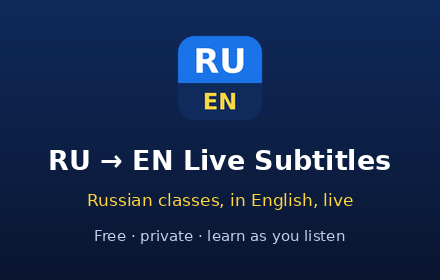
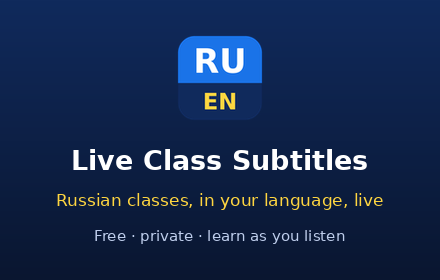
Rename to Live Class Subtitles (repo, extension, service, docs)
- Store title "Live Class Subtitles – Russian to 38 Languages", short name
  "Live Class Subtitles"; popup, setup and mic pages, prompt, listing,
  privacy policy, README, promo tile and screenshots updated.
- Repo renamed to abdullahmiraz/live-class-subtitles (GitHub redirects
  the old URL); installer, links and install dir follow.
- Downloads go to Downloads/live-class-subtitles/; zip is
  dist/live-class-subtitles-<version>.zip.
- systemd unit renamed to live-class-subtitles; install-autostart.sh
  removes the old ru-en-subtitles unit.

Changed region(s): [[0.0886, 0.5143, 0.7091, 0.6286], [0.1182, 0.6857, 0.8864, 0.7714], [0.7386, 0.5143, 0.8864, 0.6286]]

diff --git a/extension/welcome.html b/extension/welcome.html
@@ -1,7 +1,7 @@
 <!doctype html>
 <meta charset="utf-8" />
 <meta name="viewport" content="width=device-width" />
-<title>RU→EN Live Subtitles · Setup</title>
+<title>Live Class Subtitles · Setup</title>
 <style>
   body { font: 15px/1.55 system-ui, sans-serif; max-width: 640px; margin: 48px auto; padding: 0 20px; color: #222; }
   h1 { font-size: 24px; margin-bottom: 4px; }
@@ -17,18 +17,18 @@
   kbd { background: #eee; border: 1px solid #ccc; border-bottom-width: 2px; border-radius: 4px; padding: 0 5px; font-size: 13px; }
   a { color: #1a73e8; }
 </style>
-<h1>RU → EN Live Subtitles</h1>
-<p class="lead">Live English subtitles for Russian audio in any tab. Free, no account, and the speech recognition runs on your
+<h1>Live Class Subtitles</h1>
+<p class="lead">Live subtitles for Russian audio in any tab, in English or 37 other languages. Free, no account, and the speech recognition runs on your
   own computer.</p>
 
 <h2><span class="n">1</span>Install the companion (once)</h2>
 <p>Chrome can't run speech recognition by itself, so a small free server runs on your PC. On Linux, paste this into a
   terminal:</p>
-<pre id="cmd">curl -fsSL https://raw.githubusercontent.com/abdullahmiraz/ru-en-live-subtitles/main/install.sh | bash</pre>
+<pre id="cmd">curl -fsSL https://raw.githubusercontent.com/abdullahmiraz/live-class-subtitles/main/install.sh | bash</pre>
 <button id="copy">Copy</button>
 <p class="hint">It downloads the speech models once (~350 MB) and starts by itself at login. It uses ~40 MB of memory
   while idle; the models load only while subtitles are on. Manual setup and source:
-  <a href="https://github.com/abdullahmiraz/ru-en-live-subtitles#readme" target="_blank">GitHub</a>.</p>
+  <a href="https://github.com/abdullahmiraz/live-class-subtitles#readme" target="_blank">GitHub</a>.</p>
 <p>Companion status: <span id="status">checking…</span></p>
 
 <h2><span class="n">2</span>Start subtitles</h2>
@@ -41,9 +41,9 @@
 
 <h2>Privacy</h2>
 <p class="hint">Audio never leaves your computer: it goes only to the companion on your PC. Only the recognized text
-  is sent to a free translator (Yandex or Google) to get the English. No accounts, no analytics.
-  <a href="https://github.com/abdullahmiraz/ru-en-live-subtitles/blob/main/PRIVACY.md" target="_blank">Privacy policy</a></p>
+  is sent to a free translator (Yandex or Google) to get the translation. No accounts, no analytics.
+  <a href="https://github.com/abdullahmiraz/live-class-subtitles/blob/main/PRIVACY.md" target="_blank">Privacy policy</a></p>
 <h2>Help</h2>
-<p class="hint">Something not working, or an idea? <a href="https://github.com/abdullahmiraz/ru-en-live-subtitles/issues" target="_blank">Open an issue on GitHub</a>, or message
+<p class="hint">Something not working, or an idea? <a href="https://github.com/abdullahmiraz/live-class-subtitles/issues" target="_blank">Open an issue on GitHub</a>, or message
   me on <a href="https://www.linkedin.com/in/abdullahmiraz/" target="_blank">LinkedIn</a>.</p>
 <script src="welcome.js" type="module"></script>

diff --git a/extension/popup.html b/extension/popup.html
@@ -51,7 +51,7 @@
   .soon summary { font-weight: 600; cursor: pointer; }
   .soon ul { margin: 4px 0 0; padding-left: 18px; color: #555; font-size: 12px; line-height: 1.6; }
 </style>
-<h1>RU → EN Live Subtitles</h1>
+<h1>Live Class Subtitles</h1>
 <button id="toggle">Start on this tab</button>
 
 <div class="tabs" role="tablist">
@@ -87,7 +87,7 @@
     <span class="lbl"><span>Auto-start on <b id="curHost">this site</b></span><span class="i" tabindex="0" data-tip="When this site starts playing sound, a small prompt offers to start subtitles with one key. Chrome asks you once to allow this site. Manage all sites in Advanced.">i</span></span><input id="autoHere" type="checkbox" /></label>
   <fieldset>
     <legend>Record this class</legend>
-    <label><span class="lbl">Mode<span class="i" tabindex="0" data-tip="Off: nothing is saved. Manual: Start recording / Stop &amp; save. Auto: every session is saved when subtitles stop. Files go to Downloads/ru-en-subtitles/.">i</span></span>
+    <label><span class="lbl">Mode<span class="i" tabindex="0" data-tip="Off: nothing is saved. Manual: Start recording / Stop &amp; save. Auto: every session is saved when subtitles stop. Files go to Downloads/live-class-subtitles/.">i</span></span>
       <select id="saveMode">
         <option value="off">Off</option>
         <option value="manual">Manual (start / stop)</option>
@@ -110,7 +110,7 @@
     </label>
     <button id="saveBtn">Start recording</button>
     <div id="saveInfo"></div>
-    <div class="hint">Files go to Downloads/ru-en-subtitles/ · <a id="openFolder">open folder</a></div>
+    <div class="hint">Files go to Downloads/live-class-subtitles/ · <a id="openFolder">open folder</a></div>
   </fieldset>
 </section>
 
@@ -178,7 +178,7 @@
       <li>Who-said-what labels in transcripts</li>
       <li>Lite mode for older, low-memory PCs</li>
     </ul>
-    <div class="hint" style="margin-top:4px">Ideas or bugs? <a href="https://github.com/abdullahmiraz/ru-en-live-subtitles/issues" target="_blank">Tell us on GitHub</a></div>
+    <div class="hint" style="margin-top:4px">Ideas or bugs? <a href="https://github.com/abdullahmiraz/live-class-subtitles/issues" target="_blank">Tell us on GitHub</a></div>
   </details>
 </section>
 

diff --git a/extension/background.js b/extension/background.js
@@ -131,7 +131,7 @@ const finishSaving = () => serial(async () => {
       const filename = fileName(rec, "md").replace(/\.md$/, "." + (audio.ext || rec.audioFormat || "mp3"));
       const saved = await downloadBlob(audio.url, filename);
       rec.audioFile = saved;
-      files.push("ru-en-subtitles/" + saved);
+      files.push("live-class-subtitles/" + saved);
     }
   }
 
@@ -144,7 +144,7 @@ const finishSaving = () => serial(async () => {
     const text = render(rec, format);
     // long classes: a blob: URL from the offscreen document (data: URLs hit Chrome's ~2 MB URL limit)
     const blob = await toOffscreen({ type: "make-blob", text, mime: FORMATS[format].mime }, 5000);
-    if (blob && blob.url) files.push("ru-en-subtitles/" + (await downloadBlob(blob.url, filename)));
+    if (blob && blob.url) files.push("live-class-subtitles/" + (await downloadBlob(blob.url, filename)));
     else {
       await chrome.downloads.download({ url: dataUrl(text, FORMATS[format].mime), filename, conflictAction: "uniquify", saveAs: false });
       files.push(filename);

diff --git a/extension/content.js b/extension/content.js
@@ -779,8 +779,8 @@
     </style>
     <div class="toast">
       <span>🎧</span>
-      <span><b>RU→EN subtitles</b> for <span class="h"></span>?<br>
-        <span class="muted">${key ? `Press <kbd>${key.replace(/\+/g, "</kbd>+<kbd>")}</kbd> or click` : "Click"} the RU→EN icon${m.busy ? " (moves subtitles to this tab)" : ""}</span></span>
+      <span><b>Live subtitles</b> for <span class="h"></span>?<br>
+        <span class="muted">${key ? `Press <kbd>${key.replace(/\+/g, "</kbd>+<kbd>")}</kbd> or click` : "Click"} the Live Class Subtitles icon${m.busy ? " (moves subtitles to this tab)" : ""}</span></span>
       <button class="later" title="Hide for 10 minutes">Not now</button>
       <button class="never" title="Turn off auto-start for this site">Don't ask here</button>
     </div>`;

diff --git a/extension/transcript.js b/extension/transcript.js
@@ -30,10 +30,10 @@ export function stamp(epochMs) {
   return `${d.getFullYear()}-${pad(d.getMonth() + 1)}-${pad(d.getDate())}_${pad(d.getHours())}-${pad(d.getMinutes())}`;
 }
 
-/** Downloads-relative path, e.g. "ru-en-subtitles/meet.google.com_2026-10-24_18-05.md". */
+/** Downloads-relative path, e.g. "live-class-subtitles/meet.google.com_2026-10-24_18-05.md". */
 export function fileName(t, format) {
   const site = (t.site || "tab").replace(/[^a-z0-9.-]+/gi, "_").slice(0, 60);
-  return `ru-en-subtitles/${site}_${stamp(t.startedAt)}.${FORMATS[format].ext}`;
+  return `live-class-subtitles/${site}_${stamp(t.startedAt)}.${FORMATS[format].ext}`;
 }
 
 // spoken in English: with a non-English subtitle language the original English is kept in `ru`

diff --git a/extension/popup.js b/extension/popup.js
@@ -201,7 +201,7 @@ async function refreshVocab() {
 $("ankiBtn").onclick = async () => {
   const { vocab = [] } = await chrome.storage.local.get("vocab");
   const url = dataUrl(toAnki(vocab), "text/plain"); // a blob: URL could die with the popup before the download starts
-  await chrome.downloads.download({ url, filename: `ru-en-subtitles/vocabulary_${new Date().toISOString().slice(0, 10)}.txt`, conflictAction: "uniquify" });
+  await chrome.downloads.download({ url, filename: `live-class-subtitles/vocabulary_${new Date().toISOString().slice(0, 10)}.txt`, conflictAction: "uniquify" });
   $("vocabInfo").textContent += " · exported ✓ (Anki: File → Import)";
 };
 $("vocabClear").onclick = async () => {

diff --git a/extension/mic.html b/extension/mic.html
@@ -1,6 +1,6 @@
 <!doctype html>
 <meta charset="utf-8" />
-<title>RU→EN Live Subtitles · Microphone</title>
+<title>Live Class Subtitles · Microphone</title>
 <style>
   body { font: 15px/1.5 system-ui, sans-serif; max-width: 520px; margin: 48px auto; padding: 0 16px; color: #222; }
   h1 { font-size: 20px; }

diff --git a/store/compose.py b/store/compose.py
@@ -60,7 +60,7 @@ im = gradient(440, 280).convert("RGBA")
 icon = Image.open(S.parent / "extension/icons/128.png").convert("RGBA").resize((112, 112), Image.LANCZOS)
 im.paste(icon, (164, 22), icon)
 d = ImageDraw.Draw(im)
-d.text((220, 160), "RU → EN Live Subtitles", font=ImageFont.truetype(BOLD, 27), fill="white", anchor="mm")
-d.text((220, 200), "Russian classes, in English, live", font=ImageFont.truetype(REG, 17), fill=YELLOW, anchor="mm")
+d.text((220, 160), "Live Class Subtitles", font=ImageFont.truetype(BOLD, 27), fill="white", anchor="mm")
+d.text((220, 200), "Russian classes, in your language, live", font=ImageFont.truetype(REG, 17), fill=YELLOW, anchor="mm")
 d.text((220, 236), "Free · private · learn as you listen", font=ImageFont.truetype(REG, 15), fill=(190, 205, 235), anchor="mm")
 save(im, "promo-small.png")

diff --git a/server/server.py b/server/server.py
@@ -286,7 +286,7 @@ async def handler(ws):
     origin = ws.request.headers.get("Origin") if ws.request else None
     if origin and not origin.startswith("chrome-extension://"):
         print(f"refused a connection from {origin[:60]}", flush=True)
-        await ws.close(1008, "only the RU→EN Live Subtitles extension may connect")
+        await ws.close(1008, "only the Live Class Subtitles extension may connect")
         return
     url = urllib.parse.urlparse(ws.request.path if ws.request else "/")
     label = (url.path.strip("/") or "tab").replace("/", "_")[:40]

diff --git a/README.md b/README.md
@@ -1,6 +1,6 @@
-# RU → EN Live Subtitles (free, permanent)
+# Live Class Subtitles (free, permanent)
 
-[![CI](https://github.com/abdullahmiraz/ru-en-live-subtitles/actions/workflows/ci.yml/badge.svg)](https://github.com/abdullahmiraz/ru-en-live-subtitles/actions/workflows/ci.yml)
+[![CI](https://github.com/abdullahmiraz/live-class-subtitles/actions/workflows/ci.yml/badge.svg)](https://github.com/abdullahmiraz/live-class-subtitles/actions/workflows/ci.yml)
 
 Live subtitles for any Chrome tab playing Russian speech (online classes, YouTube, Meet, Zoom web…), in **English or 37 other languages** (Spanish, German, Arabic, Hindi, Bengali, Chinese, Turkish, Kazakh…). No accounts, no API keys, no paid services.
 
@@ -10,7 +10,7 @@ Live subtitles for any Chrome tab playing Russian speech (online classes, YouTub
 - **Translation**: online only, through the free Yandex / Google web endpoints (no account, no key, no CPU). Default order: **Yandex classic → Google → Yandex LLM** (Yandex classic reads best in real classes; benchmark scores below). If one fails, the next takes over automatically.
 - **Subtitle language**: popup → Basic → *Translate to* (38 languages). **Auto** uses Yandex classic first for English and Google first for other languages: in a spot check, Google was clearly better outside English. Word colors (learning) work for 19 languages, the ones where Yandex returns word matches: most European and Central Asian languages, plus Hebrew. Word-card meanings and read-aloud use the subtitle language too.
 - **English sentences**: if the speaker switches to English, that sentence is written down as said (Whisper-tiny) instead of being mistranslated. You can hide those sentences with a popup switch. Russian sentences with a few English words are always kept.
-- **Record a class**: keep the **transcript (EN + RU)**, the **audio**, or both, only if you choose it. Modes are **Off** (default), **Manual** (Start recording / Stop & save) and **Auto** (every session). Transcripts come as Markdown, SRT subtitles, plain text or JSON. Audio is the tab's sound as **MP3** (default, plays on any device, ~22 MB/hour) or Opus `.webm` (smallest, ~15 MB/hour). An `.srt` and the audio file from the same session play together in VLC/mpv. Files go to `Downloads/ru-en-subtitles/`.
+- **Record a class**: keep the **transcript (EN + RU)**, the **audio**, or both, only if you choose it. Modes are **Off** (default), **Manual** (Start recording / Stop & save) and **Auto** (every session). Transcripts come as Markdown, SRT subtitles, plain text or JSON. Audio is the tab's sound as **MP3** (default, plays on any device, ~22 MB/hour) or Opus `.webm` (smallest, ~15 MB/hour). An `.srt` and the audio file from the same session play together in VLC/mpv. Files go to `Downloads/live-class-subtitles/`.
 - **Learning mode**: each Russian word and its English translation get the **same color**, and hovering a word highlights its pair. It uses Yandex's word alignment, so you learn as you read instead of only translating.
 - **Learning tools (Extra tab)**:
   - **Word card**: hover any Russian word to see its dictionary form, grammar and meaning, e.g. *дубе → дуб, noun · masculine · prepositional · "oak"*, with **★ Save** and **✓ I know it**.
@@ -27,18 +27,18 @@ Live subtitles for any Chrome tab playing Russian speech (online classes, YouTub
 
 Requirements: Linux (tested on Ubuntu with PipeWire), Google Chrome 116+ (tested on 138+), Python 3.10+, `git`, `curl`. [`uv`](https://github.com/astral-sh/uv) is used if installed.
 
-**Quick install** of the companion server (installs into `~/.local/share/ru-en-live-subtitles`, downloads the models once and starts it at every login; run it again to update):
+**Quick install** of the companion server (installs into `~/.local/share/live-class-subtitles`, downloads the models once and starts it at every login; run it again to update):
 ```bash
-curl -fsSL https://raw.githubusercontent.com/abdullahmiraz/ru-en-live-subtitles/main/install.sh | bash
+curl -fsSL https://raw.githubusercontent.com/abdullahmiraz/live-class-subtitles/main/install.sh | bash
 ```
-Then load the extension (step 2; the folder is `~/.local/share/ru-en-live-subtitles/extension`). After the extension is first installed, its setup page shows the same command and turns green when the server is reachable.
+Then load the extension (step 2; the folder is `~/.local/share/live-class-subtitles/extension`). After the extension is first installed, its setup page shows the same command and turns green when the server is reachable.
 
 **Manual install:**
 
 1. Get the code and start the server (first run downloads ~350 MB of models; keep the terminal open):
    ```bash
-   git clone https://github.com/abdullahmiraz/ru-en-live-subtitles.git
-   cd ru-en-live-subtitles
+   git clone https://github.com/abdullahmiraz/live-class-subtitles.git
+   cd live-class-subtitles
    ./start.sh
    ```
 2. Chrome → `chrome://extensions` → enable **Developer mode** → **Load unpacked** → pick the `extension/` folder (once; after code updates click the reload ↻ icon).
@@ -61,7 +61,7 @@ When nobody is using it, it takes ~40 MB of RAM and 0% CPU. The speech models lo
 
 ## Layout
 ```
-ru-en-live-subtitles/
+live-class-subtitles/
 ├── start.sh                    start the server (sets itself up on first run)
 ├── install-autostart.sh        optional autostart (systemd user service)
 ├── install.sh                  one-line installer: clone/update + setup + autostart
@@ -153,7 +153,7 @@ Data: Google FLEURS Russian test set, 775 recordings, 413 female + 362 male spea
     - **Store and install:** one-line installer, a setup page on first install, new icons, a privacy policy, listing text, and screenshots generated by headless Chrome.
 
 21. **Any major subtitle language + final bug sweep.**
-    - 38 target languages were checked against all three translators. Speech stays Russian; any spoken language is planned in [#7](https://github.com/abdullahmiraz/ru-en-live-subtitles/issues/7).
+    - 38 target languages were checked against all three translators. Speech stays Russian; any spoken language is planned in [#7](https://github.com/abdullahmiraz/live-class-subtitles/issues/7).
     - English speech is translated into the chosen language, with the original kept.
     - The popup got ⓘ explanations and a "Coming soon" list.
     - New headless end-to-end test: Chrome's fake microphone → offscreen → server → overlay → saved files (`extension/tests/e2e_headless.py`).
@@ -166,19 +166,21 @@ Data: Google FLEURS Russian test set, 775 recordings, 413 female + 362 male spea
       - Setup hints said "run start.sh" to store users.
       - The ON badge was lost after a page reload.
 
+22. **New name: Live Class Subtitles** (before the first store upload). "RU→EN" no longer fit once subtitles came in 38 languages. The store title is "Live Class Subtitles – Russian to 38 Languages". Files now go to `Downloads/live-class-subtitles/`. The repository is now `live-class-subtitles` (old links redirect), and so is the autostart service; `install-autostart.sh` removes the old one.
+
 ## Roadmap
-Next stage (tracked as [GitHub issues](https://github.com/abdullahmiraz/ru-en-live-subtitles/issues?q=label%3Anext-stage)):
+Next stage (tracked as [GitHub issues](https://github.com/abdullahmiraz/live-class-subtitles/issues?q=label%3Anext-stage)):
 - ~~Save translations (both languages) to a file~~ ✅ done (v1.1)
 - ~~Record the class audio~~ ✅ done (v1.2)
 - ~~Learning tools (#4) and borrowed ideas (#5)~~ ✅ done (v1.5)
 - ~~Auto-start on listed websites + remember used sites~~ ✅ done (v1.4, one-key start because Chrome requires a gesture)
 - ~~Chrome Web Store package, lighter idle server, per-site access~~ ✅ done (v1.6)
-- Lite version for low-RAM PCs ([#6](https://github.com/abdullahmiraz/ru-en-live-subtitles/issues/6)) and a Pro version with more languages ([#7](https://github.com/abdullahmiraz/ru-en-live-subtitles/issues/7)), both free
+- Lite version for low-RAM PCs ([#6](https://github.com/abdullahmiraz/live-class-subtitles/issues/6)) and a Pro version with more languages ([#7](https://github.com/abdullahmiraz/live-class-subtitles/issues/7)), both free
 
 ## License
 Copyright © 2026 Abdullah Miraz. **Source-available, not open source.** Licensed under the [PolyForm Strict License 1.0.0](LICENSE):
 - ✅ Personal, non-commercial use: study, hobby, your own classes. Use by schools and non-profits is also allowed by the license.
-- ❌ No redistribution, no publishing modified versions, no building other products or services on it, no commercial use, unless you have written permission. [Open an issue](https://github.com/abdullahmiraz/ru-en-live-subtitles/issues) or [message me on LinkedIn](https://www.linkedin.com/in/abdullahmiraz/) to ask.
+- ❌ No redistribution, no publishing modified versions, no building other products or services on it, no commercial use, unless you have written permission. [Open an issue](https://github.com/abdullahmiraz/live-class-subtitles/issues) or [message me on LinkedIn](https://www.linkedin.com/in/abdullahmiraz/) to ask.
 - Breaking the terms ends your license (after a 32-day chance to fix it after written notice). After that, any further use is copyright infringement.
 
 Versions published before 2026-10-24 19:30 were MIT-licensed. Those copies keep MIT; everything from this commit on is PolyForm Strict.
@@ -194,13 +196,13 @@ Benchmarks use [Google FLEURS](https://huggingface.co/datasets/google/fleurs) (C
 MP3 encoding uses [lamejs](https://github.com/zhuker/lamejs) (LGPL-3.0, bundled unmodified in `extension/vendor/`).
 
 ## Contact
-Bugs, ideas and questions: [GitHub issues](https://github.com/abdullahmiraz/ru-en-live-subtitles/issues). Permission requests or anything private: [LinkedIn](https://www.linkedin.com/in/abdullahmiraz/). More about me: [miraz.dev](https://www.miraz.dev/about).
+Bugs, ideas and questions: [GitHub issues](https://github.com/abdullahmiraz/live-class-subtitles/issues). Permission requests or anything private: [LinkedIn](https://www.linkedin.com/in/abdullahmiraz/). More about me: [miraz.dev](https://www.miraz.dev/about).
 
 ## Privacy
 Audio only goes to the server on your own PC; only the recognized text goes to the translator. No accounts, analytics or tracking. Details: [PRIVACY.md](PRIVACY.md).
 
 ## Publishing to the Chrome Web Store (maintainer)
-1. Bump `version` in `extension/manifest.json`. Run `./package.sh`. It runs the checks and writes `dist/ru-en-live-subtitles-<version>.zip`.
+1. Bump `version` in `extension/manifest.json`. Run `./package.sh`. It runs the checks and writes `dist/live-class-subtitles-<version>.zip`.
 2. If the UI changed, refresh the screenshots:
    - Start a current server: `./start.sh`, or on a spare port: `cd server && .venv/bin/python server.py --port 8799`.
    - Then run `uv run --no-project --with websockets --with pillow python store/screenshots.py store/subs.json ws://127.0.0.1:8799 && uv run --no-project --with pillow python store/compose.py`. Everything runs headless.

diff --git a/store/LISTING.md b/store/LISTING.md
@@ -1,11 +1,11 @@
 # Chrome Web Store listing (copy-paste source)
 
-Upload: `./package.sh` → `dist/ru-en-live-subtitles-<version>.zip` →
+Upload: `./package.sh` → `dist/live-class-subtitles-<version>.zip` →
 [Developer Dashboard](https://chrome.google.com/webstore/devconsole) → **Add new item** (first time) or the item → **Package → Upload new package**.
 
 ## Store listing tab
 
-**Name** (from manifest): RU→EN Live Subtitles
+**Name** (from manifest, max 75 chars): Live Class Subtitles – Russian to 38 Languages
 
 **Summary** (manifest `description`, max 132 chars):
 > Live subtitles for Russian audio in any tab: English or 37 other languages. Speech recognition runs on your own PC.
@@ -37,9 +37,9 @@ LEARN RUSSIAN WHILE YOU LISTEN
 SETUP (once, Linux)
 After installing, a setup page shows a one-line command that installs the companion server. It starts by itself at login and uses ~40 MB of memory while idle.
 
-Requires: Linux desktop with Chrome 116+. Source, help and issues: https://github.com/abdullahmiraz/ru-en-live-subtitles
+Requires: Linux desktop with Chrome 116+. Source, help and issues: https://github.com/abdullahmiraz/live-class-subtitles
 Made by Abdullah Miraz: https://www.miraz.dev/about
-Questions or ideas: https://github.com/abdullahmiraz/ru-en-live-subtitles/issues (or LinkedIn: https://www.linkedin.com/in/abdullahmiraz/)
+Questions or ideas: https://github.com/abdullahmiraz/live-class-subtitles/issues (or LinkedIn: https://www.linkedin.com/in/abdullahmiraz/)
 ```
 
 **Graphics** (in `store/`):
@@ -47,8 +47,8 @@ Questions or ideas: https://github.com/abdullahmiraz/ru-en-live-subtitles/issues
 - Screenshots 1280×800: `store/screenshot-*.png`
 - Small promo tile 440×280: `store/promo-small.png`
 
-**Homepage URL:** https://github.com/abdullahmiraz/ru-en-live-subtitles
-**Support URL:** https://github.com/abdullahmiraz/ru-en-live-subtitles/issues
+**Homepage URL:** https://github.com/abdullahmiraz/live-class-subtitles
+**Support URL:** https://github.com/abdullahmiraz/live-class-subtitles/issues
 
 ## Privacy tab
 
@@ -76,7 +76,7 @@ Questions or ideas: https://github.com/abdullahmiraz/ru-en-live-subtitles/issues
   - not used for purposes unrelated to the single purpose
   - not used for creditworthiness or lending
 
-**Privacy policy URL:** https://github.com/abdullahmiraz/ru-en-live-subtitles/blob/main/PRIVACY.md
+**Privacy policy URL:** https://github.com/abdullahmiraz/live-class-subtitles/blob/main/PRIVACY.md
 
 ## Distribution tab
 - Visibility: **Public**, or **Unlisted** for a first soft launch (only people with the link can install it).
@@ -85,7 +85,7 @@ Questions or ideas: https://github.com/abdullahmiraz/ru-en-live-subtitles/issues
 ## Notes for reviewers (Test instructions field)
 ```
 The extension needs its free companion server on the same computer (it does the speech recognition locally).
-Install on Linux: curl -fsSL https://raw.githubusercontent.com/abdullahmiraz/ru-en-live-subtitles/main/install.sh | bash
+Install on Linux: curl -fsSL https://raw.githubusercontent.com/abdullahmiraz/live-class-subtitles/main/install.sh | bash
 Then open a tab with Russian speech (e.g. any Russian YouTube lecture), click the extension icon → Start.
 Without the server the popup shows "Local server: not running · set it up".
 ```

diff --git a/PRIVACY.md b/PRIVACY.md
@@ -1,8 +1,8 @@
-# Privacy policy: RU→EN Live Subtitles
+# Privacy policy: Live Class Subtitles
 
 _Last updated: 24 October 2026_
 
-RU→EN Live Subtitles (the Chrome extension and its companion server) is built by Abdullah Miraz
+Live Class Subtitles (the Chrome extension and its companion server) is built by Abdullah Miraz
 ([miraz.dev](https://www.miraz.dev/about)). It does not collect, sell or share any personal data. The developer
 receives nothing: there are no accounts, analytics, ads or tracking.
 
@@ -11,7 +11,7 @@ receives nothing: there are no accounts, analytics, ads or tracking.
 | Data | Where it goes |
 |---|---|
 | **Tab or microphone audio** | Only to the companion server on **your own computer** (`127.0.0.1`). Never sent anywhere else. |
-| **Recognized text** (the Russian sentences) | Sent by the companion to a free online translator to get the English: Yandex Translate (`translate.yandex.net`) and/or Google Translate (`translate.googleapis.com`), in the order you choose. Their own privacy policies apply. |
+| **Recognized text** (the Russian sentences) | Sent by the companion to a free online translator to get the translation: Yandex Translate (`translate.yandex.net`) and/or Google Translate (`translate.googleapis.com`), in the order you choose. Their own privacy policies apply. |
 | **Words you look up** (word card) | The dictionary form of the word is sent to the same translator for its meaning. |
 | **Settings** | `chrome.storage.sync` (synced by Chrome between your own devices if you use Chrome sync). |
 | **Vocabulary, known words, remembered sites** | `chrome.storage.local`, on your computer only. |
@@ -27,4 +27,4 @@ receives nothing: there are no accounts, analytics, ads or tracking.
 - **downloads**: save recordings and transcripts you asked for.
 
 ## Contact
-Questions: open an issue at <https://github.com/abdullahmiraz/ru-en-live-subtitles/issues>, or message Abdullah Miraz on LinkedIn: <https://www.linkedin.com/in/abdullahmiraz/>.
+Questions: open an issue at <https://github.com/abdullahmiraz/live-class-subtitles/issues>, or message Abdullah Miraz on LinkedIn: <https://www.linkedin.com/in/abdullahmiraz/>.
